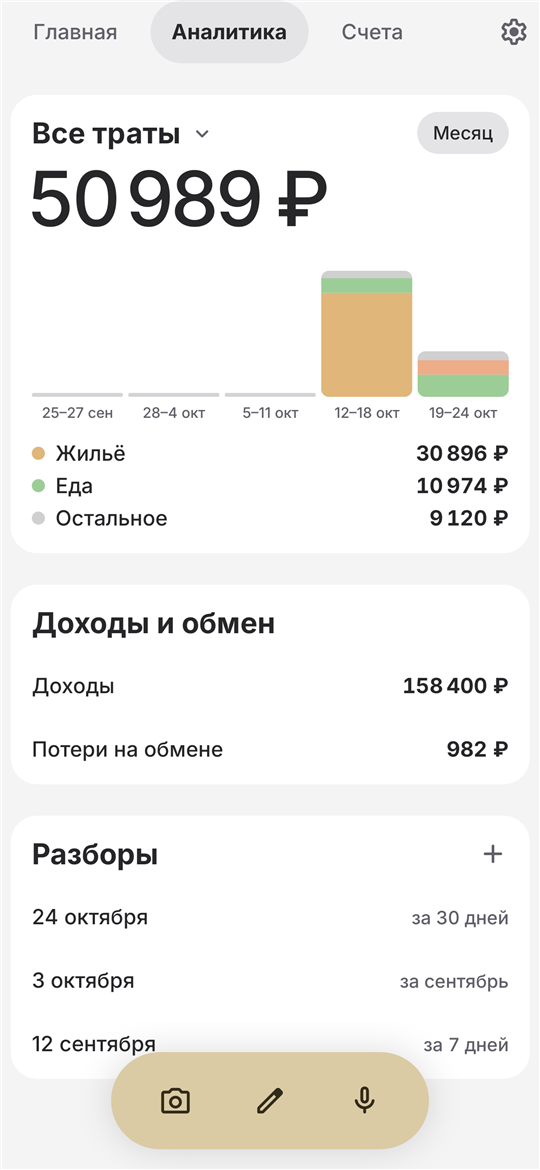
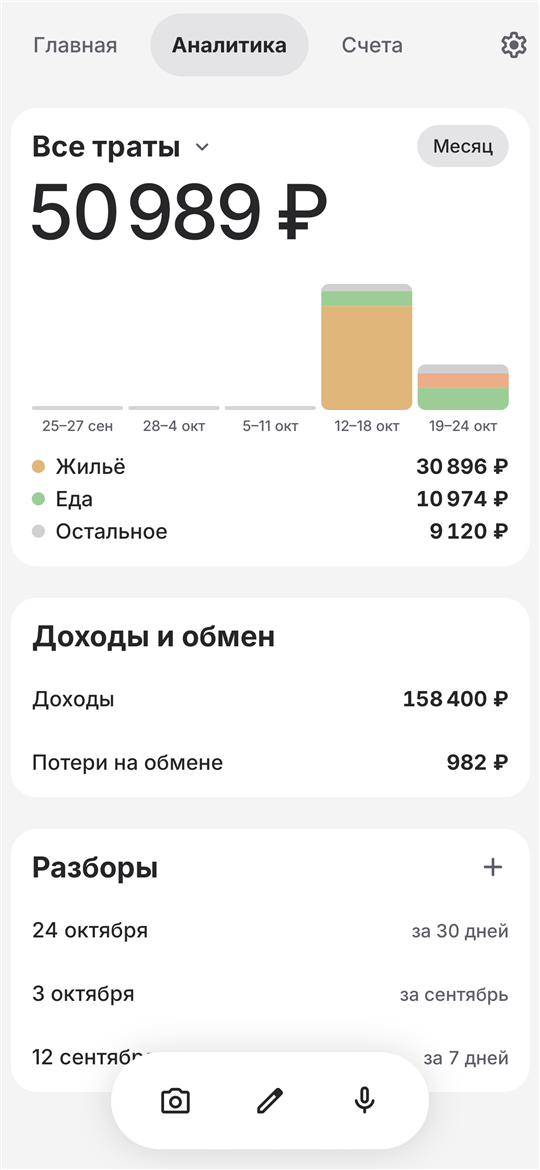
Island neutral again; the Home bar shows the reserve ahead of plan as a ghost
Made by Codex, committed by the orchestrator.

diff --git a/app/src/test/java/sh/aminov/golda/CodexBatch1PreviewTest.kt b/app/src/test/java/sh/aminov/golda/CodexBatch1PreviewTest.kt
@@ -5,6 +5,8 @@ import androidx.compose.material3.FabPosition
 import androidx.compose.material3.Scaffold
 import androidx.compose.ui.test.junit4.createComposeRule
 import androidx.compose.ui.test.onRoot
+import androidx.compose.ui.test.onNodeWithTag
+import androidx.compose.ui.test.assertContentDescriptionEquals
 import com.github.takahirom.roborazzi.captureRoboImage
 import org.junit.Assert.assertEquals
 import org.junit.Before
@@ -17,6 +19,7 @@ import org.robolectric.annotation.GraphicsMode
 import sh.aminov.golda.data.OpType
 import sh.aminov.golda.domain.I18n
 import sh.aminov.golda.domain.Light
+import sh.aminov.golda.domain.Fmt
 import sh.aminov.golda.ui.*
 import java.util.TimeZone
 
@@ -51,25 +54,41 @@ class CodexBatch1PreviewTest {
         compose.onRoot().captureRoboImage("build/codex-batch1/final_$name.png")
     }
 
-    @Test fun finalHome() = shot("home", 0)
+    @Test fun finalHome() {
+        val data = ScreenshotTest().demo()
+        shot("home", 0, data)
+        val envelope = data.envelope!!
+        compose.onNodeWithTag(Tags.HOME_SPENT).assertContentDescriptionEquals(
+            "Осталось ${Fmt.whole(envelope.balanceMinor, "GEL")} ₾, по плану должно остаться ${Fmt.whole(envelope.plannedLeftMinor, "GEL")} ₾",
+        )
+    }
     @Test fun finalInsights() = shot("insights", 1)
     @Test fun finalAccounts() = shot("accounts", 2)
 
     @Test fun finalHomeWithinPlan() {
         val demo = ScreenshotTest().demo()
         val envelope = demo.envelope!!
-        // Keep the period's funds and today's spending. Reduce the earlier one-off rent.
-        val reduction = envelope.spentMinor - envelope.normMinor + envelope.fundsMinor / 10
+        // Keep the period's funds and today's spending. Reduce two earlier expenses to leave 1 930 GEL.
         val rent = demo.operations.first { it.op.type == OpType.EXPENSE && it.op.note == "Аренда" }
+        val food = demo.operations.first { it.op.type == OpType.EXPENSE && it.op.note == "Продукты" }
+        val reductions = mapOf(rent.op.id to 85_000L, food.op.id to 5_410L)
         val operations = demo.operations.map { full ->
-            if (full != rent) full else full.copy(postings = full.postings.map { posting ->
-                posting.copy(amountMinor = posting.amountMinor + reduction,
-                    rubMinor = posting.rubMinor + demo.rates.rubMinor(reduction, envelope.currency)!!)
-            })
+            val reduction = reductions[full.op.id]
+            if (reduction == null) full else full.copy(
+                op = full.op.copy(purchaseAmountMinor = full.op.purchaseAmountMinor?.minus(reduction)),
+                postings = full.postings.map { posting ->
+                    posting.copy(amountMinor = posting.amountMinor + reduction,
+                        rubMinor = posting.rubMinor + demo.rates.rubMinor(reduction, envelope.currency)!!)
+                },
+            )
         }
         val data = AppData(demo.settings, demo.accounts, operations, demo.categories, emptyList(), demo.obligations, demo.today)
         assertEquals(envelope.fundsMinor, data.envelope!!.fundsMinor)
         assertEquals(Light.GREEN, data.envelope!!.light)
+        assertEquals(193_000L, data.envelope!!.balanceMinor)
         shot("green", 0, data)
+        compose.onNodeWithTag(Tags.HOME_SPENT).assertContentDescriptionEquals(
+            "Осталось ${Fmt.whole(193_000, "GEL")} ₾, запас к плану ${Fmt.whole(data.envelope!!.marginMinor, "GEL")} ₾",
+        )
     }
 }

diff --git a/app/src/test/java/sh/aminov/golda/RemainderBarTest.kt b/app/src/test/java/sh/aminov/golda/RemainderBarTest.kt
@@ -38,17 +38,30 @@ class RemainderBarTest {
             val plan = envelope(funds, 0).normMinor
             val e = envelope(funds, plan + funds / 10)
             assertTrue(e.leftShare < e.plannedLeftShare)
+            assertEquals(e.leftShare, e.solidLeftShare, 0f)
+            assertEquals(e.plannedLeftShare, e.ghostLeftShare, 0f)
             assertEquals((e.spentMinor - e.normMinor).toFloat() / funds, e.plannedLeftShare - e.leftShare, 0.000001f)
         }
     }
 
-    @Test fun aheadOfPlanTheSolidFillCoversTheGhostAndOnPlanTheirEndsMeet() = prop {
+    @Test fun aheadOfPlanTheGhostShowsTheReserveAfterTheNorm() = prop {
         checkAll(Arb.long(1_000L..100_000_000L)) { funds ->
             val plan = envelope(funds, 0).normMinor
             val ahead = envelope(funds, plan - funds / 10)
             assertTrue(ahead.leftShare > ahead.plannedLeftShare)
+            assertEquals(ahead.plannedLeftShare, ahead.solidLeftShare, 0f)
+            assertEquals(ahead.leftShare, ahead.ghostLeftShare, 0f)
+            assertEquals(ahead.marginMinor.toFloat() / funds, ahead.ghostLeftShare - ahead.solidLeftShare, 0.000001f)
+        }
+    }
+
+    @Test fun onPlanThereIsOnlySolidFill() = prop {
+        checkAll(Arb.long(1_000L..100_000_000L)) { funds ->
+            val plan = envelope(funds, 0).normMinor
             val onPlan = envelope(funds, plan)
             assertEquals(onPlan.leftShare, onPlan.plannedLeftShare, 0f)
+            assertEquals(onPlan.leftShare, onPlan.solidLeftShare, 0f)
+            assertEquals(onPlan.solidLeftShare, onPlan.ghostLeftShare, 0f)
         }
     }
 
@@ -65,14 +78,18 @@ class RemainderBarTest {
         assertEquals((96_590.0 / 241_200).toFloat(), e.leftShare, 0f)
         assertEquals(e.leftShare, e.copy(leftTodayMinor = 3_200).leftShare, 0f)
         assertTrue(e.plannedLeftShare > e.leftShare)
+        assertEquals(e.leftShare, e.solidLeftShare, 0f)
+        assertEquals(e.plannedLeftShare, e.ghostLeftShare, 0f)
     }
 
-    @Test fun atTheStartTheFillIsFullAndTheNormAlreadyIncludesToday() = prop {
+    @Test fun atTheStartTheGhostCompletesTheFullRemainderAfterTodaysNorm() = prop {
         checkAll(Arb.long(31L..100_000_000L)) { funds ->
             val e = envelope(funds, 0, daysLeft = 31)
             assertEquals(1f, e.leftShare, 0f)
             assertEquals(funds - funds / 31, e.plannedLeftMinor)
             assertEquals(((funds - funds / 31).toDouble() / funds).toFloat(), e.plannedLeftShare, 0f)
+            assertEquals(e.plannedLeftShare, e.solidLeftShare, 0f)
+            assertEquals(1f, e.ghostLeftShare, 0f)
         }
     }
 
@@ -81,6 +98,8 @@ class RemainderBarTest {
             assertEquals(0f, it.leftShare, 0f)
             assertEquals(0L, it.plannedLeftMinor)
             assertEquals(0f, it.plannedLeftShare, 0f)
+            assertEquals(0f, it.solidLeftShare, 0f)
+            assertEquals(0f, it.ghostLeftShare, 0f)
         }
         assertEquals(0f, envelope(100, 100).leftShare, 0f)
         assertEquals(0f, envelope(100, 200).leftShare, 0f)

diff --git a/app/src/main/java/sh/aminov/golda/ui/Screens.kt b/app/src/main/java/sh/aminov/golda/ui/Screens.kt
@@ -111,8 +111,8 @@ private val TileHeight = 32.dp
 private val TileCorner = 6.dp
 
 /**
- * The period's remainder in its existing pace colour, with a lighter ghost up to today's norm.
- * Ahead of plan the solid fill covers the ghost. The words keep the original card's spacing.
+ * The remainder and today's norm share one track in the existing pace colour.
+ * The lighter segment between them shows the deficit or reserve against plan.
  */
 @Composable
 private fun SpentTiles(envelope: Envelope) {
@@ -125,14 +125,17 @@ private fun SpentTiles(envelope: Envelope) {
         Light.YELLOW -> paceColor(Pace.LASTS)
         Light.RED -> paceColor(Pace.OVER)
     }
-    val description = tr(
+    val description = if (envelope.marginMinor > 0) tr(
+        "Осталось ${whole(left, code)}, запас к плану ${whole(envelope.marginMinor, code)}",
+        "Left ${whole(left, code)}, reserve against plan ${whole(envelope.marginMinor, code)}",
+    ) else tr(
         "Осталось ${whole(left, code)}, по плану должно остаться ${whole(envelope.plannedLeftMinor, code)}",
         "Left ${whole(left, code)}, planned remainder ${whole(envelope.plannedLeftMinor, code)}",
     )
     Box(Modifier.fillMaxWidth().height(TileHeight).clip(RoundedCornerShape(TileCorner)).background(tones.soft)
         .testTag(Tags.HOME_SPENT).semantics { contentDescription = description }) {
-        Box(Modifier.fillMaxWidth(envelope.plannedLeftShare).height(TileHeight).clip(RoundedCornerShape(TileCorner)).background(fill.copy(alpha = 0.35f)))
-        Box(Modifier.fillMaxWidth(envelope.leftShare).height(TileHeight).clip(RoundedCornerShape(TileCorner)).background(fill))
+        Box(Modifier.fillMaxWidth(envelope.ghostLeftShare).height(TileHeight).clip(RoundedCornerShape(TileCorner)).background(fill.copy(alpha = 0.35f)))
+        Box(Modifier.fillMaxWidth(envelope.solidLeftShare).height(TileHeight).clip(RoundedCornerShape(TileCorner)).background(fill))
     }
     VSpace(ChartSpace.tilesToWords)
     Row(Modifier.fillMaxWidth()) {

diff --git a/app/src/main/java/sh/aminov/golda/ui/VoiceUi.kt b/app/src/main/java/sh/aminov/golda/ui/VoiceUi.kt
@@ -248,7 +248,7 @@ private fun describe(draft: Draft, data: AppData): String {
 @OptIn(ExperimentalMaterial3ExpressiveApi::class)
 @Composable
 fun EntryBar(voice: VoiceControl, onAdd: () -> Unit, modifier: Modifier = Modifier) {
-    val colors = LocalEntryColors.current
+    val scheme = MaterialTheme.colorScheme
     val label = when (voice.state) {
         VoiceState.Idle -> tr("Сказать", "Say it")
         VoiceState.Recording -> tr("Слушаю. Нажми, когда закончишь", "Listening. Tap when you're done")
@@ -258,8 +258,9 @@ fun EntryBar(voice: VoiceControl, onAdd: () -> Unit, modifier: Modifier = Modifi
     Surface(
         modifier.height(ToolbarHeight).softShadow(CircleShape),
         shape = CircleShape,
-        color = colors.container,
-        contentColor = colors.content,
+        // A card in light; in dark a step up, or it melts into the cards it floats over.
+        color = if (isDark()) scheme.surfaceContainerHighest else scheme.surfaceContainerHigh,
+        contentColor = scheme.onSurface,
     ) {
         Row(Modifier.padding(ToolbarInset), verticalAlignment = Alignment.CenterVertically) {
             if (voice.state == VoiceState.Recording) {
@@ -271,7 +272,7 @@ fun EntryBar(voice: VoiceControl, onAdd: () -> Unit, modifier: Modifier = Modifi
             }
             BarMark(voice.toggle, Modifier.semantics { contentDescription = label; liveRegion = LiveRegionMode.Polite }) {
                 when (voice.state) {
-                    VoiceState.Thinking -> LoadingIndicator(Modifier.size(36.dp), color = colors.content)
+                    VoiceState.Thinking -> LoadingIndicator(Modifier.size(36.dp), color = scheme.onSurface)
                     VoiceState.Recording -> Icon(painterResource(R.drawable.ic_stop), null, Modifier.size(BarIcon))
                     VoiceState.Idle -> Icon(painterResource(R.drawable.ic_mic), null, Modifier.size(BarIcon))
                 }

diff --git a/app/src/main/java/sh/aminov/golda/ui/Colors.kt b/app/src/main/java/sh/aminov/golda/ui/Colors.kt
@@ -53,14 +53,11 @@ class Tones(
     val pace: Color? = null,
     /** A theme's own colours for the categories, in turn by category; null: each category's hue at [infoL] and [infoC]. */
     val swatches: List<Color>? = null,
-    /** The entry island follows the theme's raised surface unless a preset supplies its own pair. */
-    val entryContainer: Color = if (dark) soft else card,
-    val entryContent: Color = text,
 ) {
     /** The same set on another [page]: pure black for OLED screens. */
     fun onPage(page: Color) = Tones(
         dark, page, card, soft, line, muted, text, graphite, onGraphite, gold, onGold, error, onError, errorSoft, onErrorSoft,
-        infoL, infoC, seedHue, clearColours, plate, onPlate, onPlateMuted, pace, swatches, entryContainer, entryContent,
+        infoL, infoC, seedHue, clearColours, plate, onPlate, onPlateMuted, pace, swatches,
     )
 }
 
@@ -80,8 +77,6 @@ internal val GoldaLight = Tones(
     onError = Color(0xFFFFFFFF),
     errorSoft = Color(0xFFFEE2E2),
     onErrorSoft = Color(0xFF991B1B),
-    entryContainer = Color(0xFFDACBA5),
-    entryContent = Color(0xFF332C1A),
 )
 
 internal val GoldaDark = Tones(
@@ -100,8 +95,6 @@ internal val GoldaDark = Tones(
     onError = Color(0xFF450A0A),
     errorSoft = Color(0xFF4C1D1D),
     onErrorSoft = Color(0xFFFECACA),
-    entryContainer = Color(0xFF6B5D3E),
-    entryContent = Color(0xFFFFF4DA),
 )
 
 /** The Material scheme for a set of [Tones]: every role lands on one of its few colours. */

diff --git a/app/src/main/java/sh/aminov/golda/domain/Envelope.kt b/app/src/main/java/sh/aminov/golda/domain/Envelope.kt
@@ -105,14 +105,20 @@ data class Envelope(
         else -> (spentMinor.toFloat() / fundsMinor).coerceIn(0f, 1f)
     }
 
-    /** The solid remainder on Home, with no artificial minimum or money when the period has none. */
+    /** The actual remainder on Home, with no artificial minimum or money when the period has none. */
     val leftShare: Float get() = if (fundsMinor <= 0) 0f else (balanceMinor.toDouble() / fundsMinor).coerceIn(0.0, 1.0).toFloat()
 
     /** What should remain by the end of today at the existing norm. */
     val plannedLeftMinor: Long get() = (fundsMinor - normMinor).coerceAtLeast(0)
 
-    /** The ghost's end on the same track. The solid fill covers it when spending is ahead of plan. */
+    /** The planned remainder on the same track. */
     val plannedLeftShare: Float get() = if (fundsMinor <= 0) 0f else (plannedLeftMinor.toDouble() / fundsMinor).coerceIn(0.0, 1.0).toFloat()
+
+    /** Solid up to the remainder or the norm, whichever comes first. */
+    val solidLeftShare: Float get() = minOf(leftShare, plannedLeftShare)
+
+    /** The lighter segment reaches the other end, showing either a deficit or a reserve. */
+    val ghostLeftShare: Float get() = maxOf(leftShare, plannedLeftShare)
 
     /** The period's length in words when it is one of the usual ones. */
     val length: Envelopes.Length? get() = Envelopes.Length.entries.firstOrNull { Envelopes.end(start, it) == end }

diff --git a/app/src/test/java/sh/aminov/golda/ThemeGenTest.kt b/app/src/test/java/sh/aminov/golda/ThemeGenTest.kt
@@ -25,25 +25,6 @@ import kotlin.random.Random
 
 class ThemeGenTest {
     @Test
-    fun entryIslandKeepsItsPresetColoursAndContrast() {
-        listOf(false, true).forEach { dark ->
-            val golda = tonesFor("golda", dark)
-            assertEquals(if (dark) 0xFF6B5D3E.toInt() else 0xFFDACBA5.toInt(), golda.entryContainer.toArgb())
-            assertEquals(if (dark) 0xFFFFF4DA.toInt() else 0xFF332C1A.toInt(), golda.entryContent.toArgb())
-            assertTrue(ratio(golda.entryContent, golda.entryContainer) >= 4.5)
-            assertEquals(golda.entryContainer, tonesFor("golda", dark, oled = true).entryContainer)
-            Palette.entries.filter { it != Palette.GOLDA }.forEach { preset ->
-                val t = preset.tones(dark)
-                assertEquals(if (dark) t.soft else t.card, t.entryContainer)
-                assertEquals(t.text, t.entryContent)
-            }
-            val custom = tonesFor(ThemeSpec(212).key, dark)
-            assertEquals(if (dark) custom.soft else custom.card, custom.entryContainer)
-            assertEquals(custom.text, custom.entryContent)
-        }
-    }
-
-    @Test
     fun aSpecSurvivesItsKey() {
         val spec = ThemeSpec(212, ThemeStyle.EXPRESSIVE, ThemeMode.DARK, 2)
         assertEquals(spec, ThemeSpec.parse(spec.key))

diff --git a/app/src/main/java/sh/aminov/golda/ui/Theme.kt b/app/src/main/java/sh/aminov/golda/ui/Theme.kt
@@ -30,8 +30,6 @@ class ActionColors(val container: Color, val content: Color)
 
 private val LocalAction = staticCompositionLocalOf { ActionColors(Color.Unspecified, Color.Unspecified) }
 
-internal val LocalEntryColors = staticCompositionLocalOf { ActionColors(Color.Unspecified, Color.Unspecified) }
-
 /** The gold behind the one action on a screen or sheet. */
 @Composable
 @ReadOnlyComposable
@@ -78,7 +76,7 @@ fun GoldaTheme(tones: Tones, colouredRows: Boolean = true, spacing: String? = nu
             }
         }
     }
-    CompositionLocalProvider(LocalAction provides ActionColors(base.primary, base.onPrimary), LocalEntryColors provides ActionColors(tones.entryContainer, tones.entryContent), LocalTones provides tones, LocalColouredRows provides colouredRows, LocalSpacing provides Spacing.of(spacing)) {
+    CompositionLocalProvider(LocalAction provides ActionColors(base.primary, base.onPrimary), LocalTones provides tones, LocalColouredRows provides colouredRows, LocalSpacing provides Spacing.of(spacing)) {
         MaterialExpressiveTheme(
             colorScheme = base.goldOnlyByName(),
             motionScheme = MotionScheme.expressive(),

diff --git a/SPEC.md b/SPEC.md
@@ -299,8 +299,10 @@
 - На главной под цифрой цельная полоса толщиной 32 со скруглением 6. Сплошное заполнение — остаток на карте,
   делённый на деньги периода, в пределах 0…1. Траты уменьшают заполнение, пополнения увеличивают его.
   Плановый остаток равен деньгам периода минус `normMinor`, минимум 0. Призрачное заполнение того же цвета
-  с непрозрачностью 35 % идёт до доли планового остатка. Сплошное лежит поверх него, поэтому при экономии
-  призрак скрыт. При нулевых или отрицательных деньгах периода обе доли равны 0. Минимальной ширины нет.
+  с непрозрачностью 35 % показывает разницу между фактическим и плановым остатком. При отставании
+  сплошное заполнение идёт до остатка, призрак — от него до нормы. При экономии сплошное идёт до нормы,
+  призрак — от нормы до остатка. Ровно по плану видна только сплошная часть. При нулевых или отрицательных
+  деньгах периода обе доли равны 0. Минимальной ширины нет.
   Под полосой слева «Осталось», сумма и «47 в день» (план), справа «Ушло», сумма и «122 в день»
   (бёрн, без разовых, поэтому не равен сумме на дни). Типографика и отступы прежние, из `ChartSpace`.
   Цвет остатка — светофор. Разница с нормой не больше 5 % денег периода даёт жёлтый, меньше нормы — зелёный,
@@ -436,8 +438,8 @@
 Внизу одна плавающая панель 74 в высоту, значки 26: значки способов записи без подписей, равные, слева направо камера, карандаш (вручную),
 микрофон; уже карточек, видно, что лежит поверх. Значок камеры есть только на телефоне с камерой. Во время записи панель на
 месте и того же размера: слева отмена (запись не сохраняется), в середине уровень голоса, на месте микрофона стоп.
-В светлой Golda панель — шампань #DACBA5 со значками #332C1A, в тёмной — #6B5D3E со значками #FFF4DA.
-Во время записи и обработки используются те же чернила. В остальных темах панель сохраняет собственную поднятую поверхность и цвет текста.
+Во всех темах панель нейтральная — `surfaceContainerHigh` в светлой теме и `surfaceContainerHighest`
+в тёмной, со значками `onSurface`. Во время записи и обработки используются те же чернила.
 
 Снимок: системная камера, разрешение не нужно. Снимок сжимается до 1600 по длинной стороне, JPEG, и идёт в Gemini
 путём голосовой записи: тот же ключ, очередь, повторы, «Не разобрано: N», та же проверка и то же подтверждение.

diff --git a/README.md b/README.md
@@ -60,9 +60,10 @@ loud is the moment you notice you are spending.
   that card asks "Новый месяц с …?" (on for a transfer from your own account,
   off for an income), so a friend's money never restarts the month; when the
   period ends, the next one of the same length begins.
-- **The period in one bar.** The solid fill shows the money left in the
-  existing pace colour. A lighter ghost extends to what should remain today
-  at an even pace. Below it, the remainder and daily plan sit on the left,
+- **The period in one bar.** The existing pace colour shows the remainder
+  against today's even plan. The solid fill reaches the smaller amount, and
+  a lighter ghost shows the deficit or reserve up to the larger one.
+  Below it, the remainder and daily plan sit on the left,
   spending and actual pace on the right. Measured by the card's balance,
   including days you wrote nothing down.
 - **Three buckets.** Everyday, regular (rent, phone, subscriptions) and
